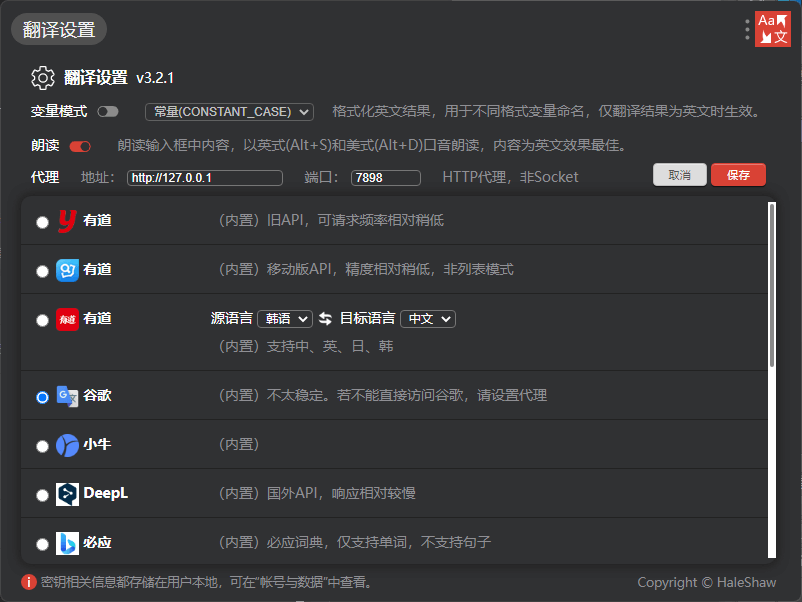
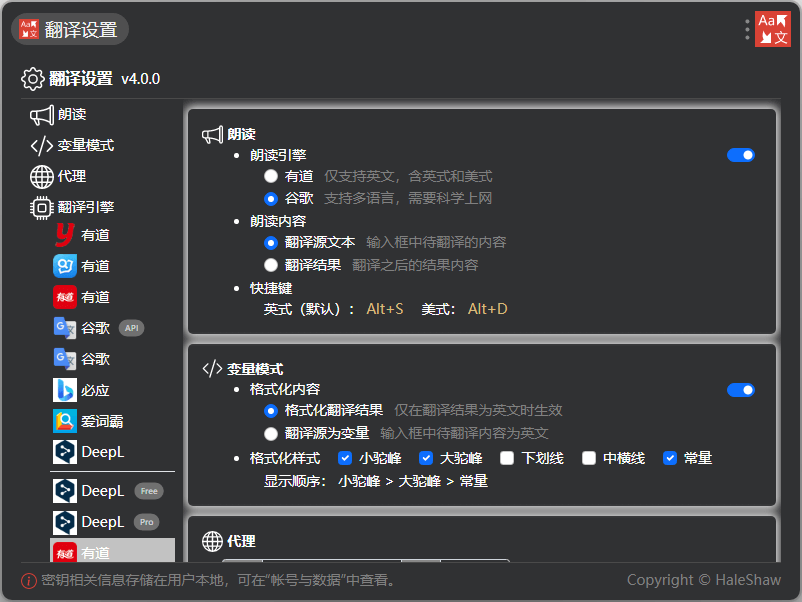
Update readme and screenshots

Changed region(s): [[0.0, 0.0, 1.0, 1.0]]

diff --git a/README.md b/README.md
@@ -26,7 +26,7 @@
 
 - 语言设置
 
-  ![translateAliYun](https://raw.githubusercontent.com/HaleShaw/uTools-Translate/main/screenshots/translateAliYun.png)
+  ![translateYouDao](https://raw.githubusercontent.com/HaleShaw/uTools-Translate/main/screenshots/translateYouDao.png)
 
 - 有道WAP API，页面模式
 
